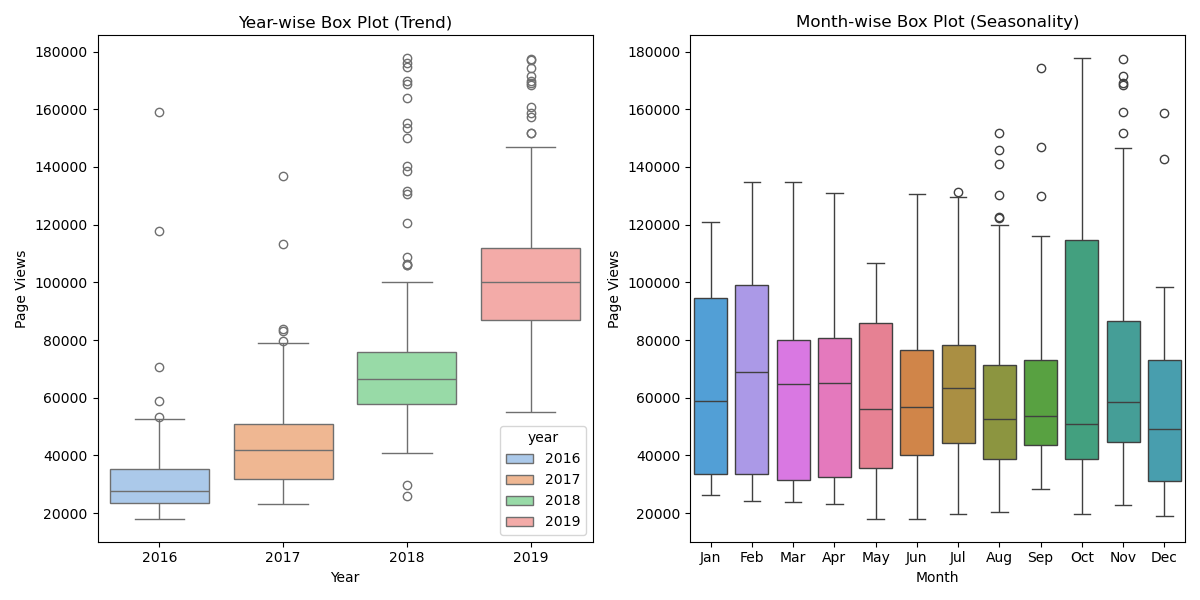
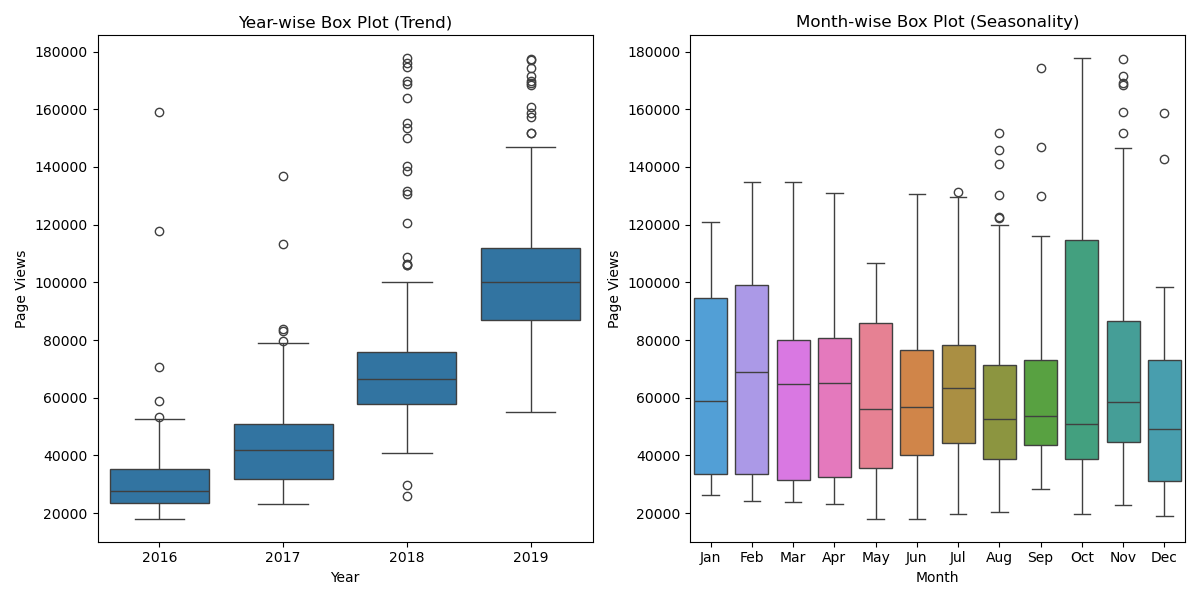
final_update

diff --git a/time-series-visualizer/time_series_visualizer.py b/time-series-visualizer/time_series_visualizer.py
@@ -54,7 +54,7 @@ def draw_box_plot():
 
     # Draw box plots (using Seaborn)
     fig, (ax1, ax2) = plt.subplots(1, 2, figsize=(12, 6))
-    sns.boxplot(df_box, x=df_box['year'], y=df_box['value'], hue=df_box['year'], palette='pastel', ax=ax1)
+    sns.boxplot(df_box, x=df_box['year'], y=df_box['value'], ax=ax1)
     ax1.set_xlabel('Year')
     ax1.set_ylabel('Page Views')
     ax1.set_title('Year-wise Box Plot (Trend)')
